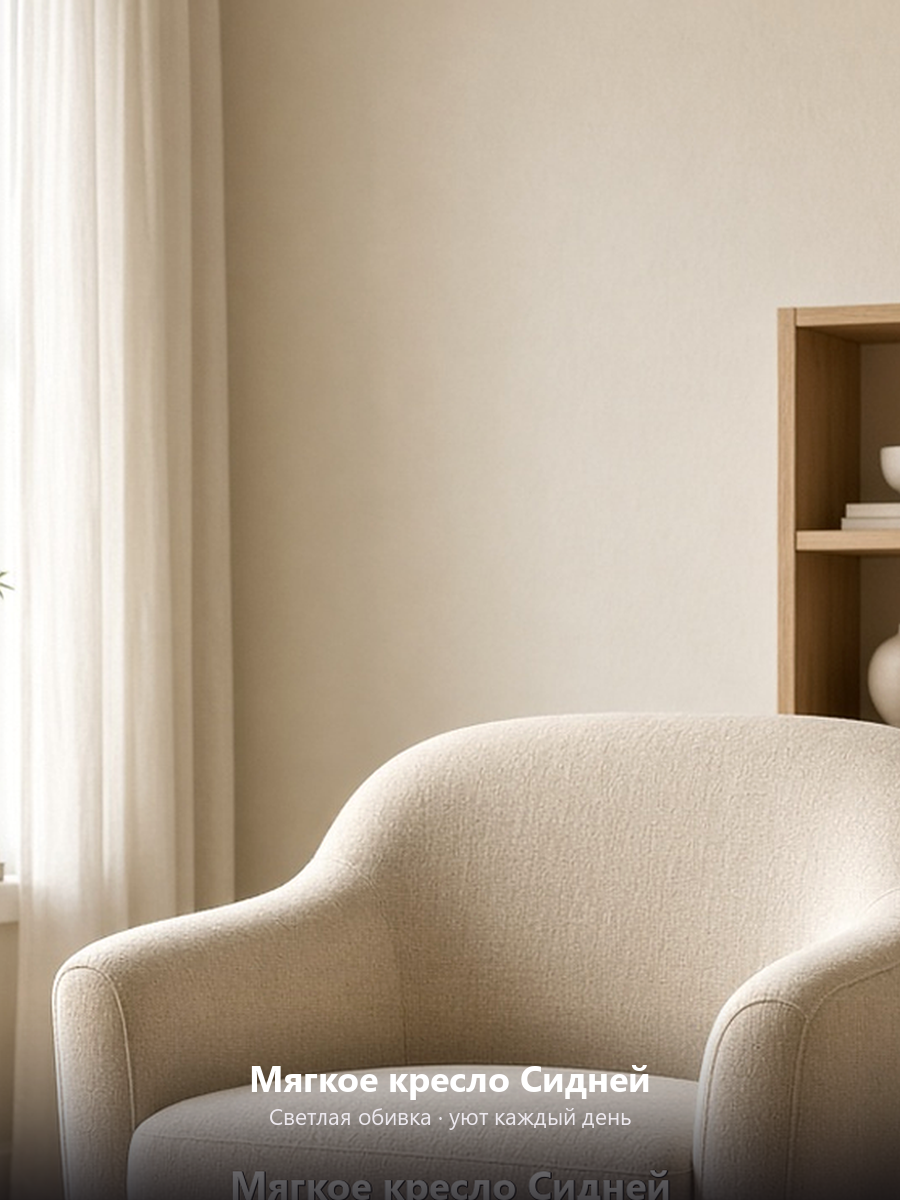
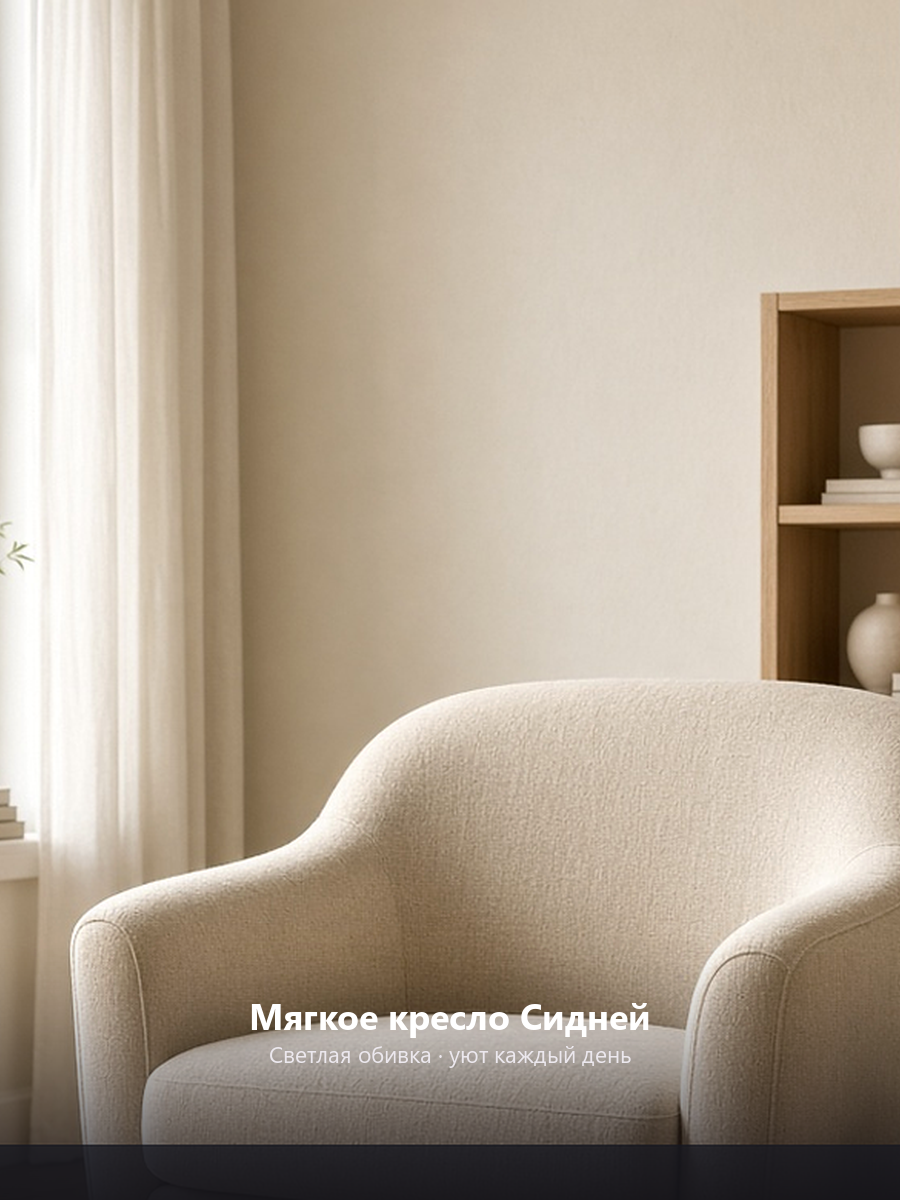
Lift chair cover title away from bottom edge.

Changed region(s): [[0.0, 0.0, 1.0, 1.0]]

diff --git a/scripts/mp_layout_kit/rebuild_covers_fullbleed.py b/scripts/mp_layout_kit/rebuild_covers_fullbleed.py
@@ -51,9 +51,11 @@ def draw_bottom_copy(im: Image.Image, title: str, sub: str, title_size=42, sub_s
     gap = 12
     block = th + gap + sh
     y0 = H - GRAD_H
-    ty = y0 + int(GRAD_H * 0.28)
-    if ty + block > H - 28:
-        ty = H - 28 - block
+    # Keep clear air above the bottom edge (was clipping on chair cover)
+    bottom_pad = 56
+    ty = y0 + int(GRAD_H * 0.18)
+    if ty + block > H - bottom_pad:
+        ty = H - bottom_pad - block
     draw.text(((W - tw) / 2, ty), title, font=ft, fill=(255, 255, 255))
     draw.text(((W - sw) / 2, ty + th + gap), sub, font=fs, fill=(236, 232, 238))
     return im
